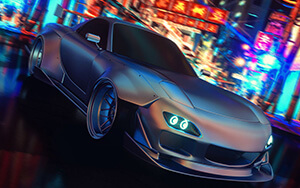
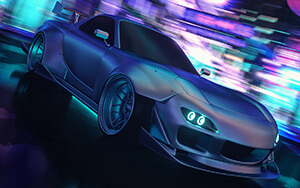
add new projects

diff --git a/src/_projects.js b/src/_projects.js
@@ -13,10 +13,22 @@ export const projects = [
         title: 'RX Punk',
         slug: 'rxpunk',
         date: 'August 2020',
-        tags: [],
+        tags: ['icon-images'],
         thumbnail: '/projects/2020/rxpunk/rxpunk-thumb.jpg',
         content: `
-        <img src="/projects/2020/rxpunk/rxpunk.jpg" width="1206" height="1507">
+        <img src="/projects/2020/rxpunk/rxpunk-1.jpg" width="1600" height="2000">
+        <img src="/projects/2020/rxpunk/rxpunk-2.jpg" width="1206" height="1507">
+        `
+    },
+    {
+        title: 'RX Drift',
+        slug: 'rxdrift',
+        date: 'August 2020',
+        tags: ['icon-images'],
+        thumbnail: '/projects/2020/rxdrift/rxdrift-thumb.jpg',
+        content: `
+        <img src="/projects/2020/rxdrift/rxdrift-1.jpg" width="1600" height="2000">
+        <img src="/projects/2020/rxdrift/rxdrift-2.jpg" width="1206" height="1507">
         `
     },
     {
